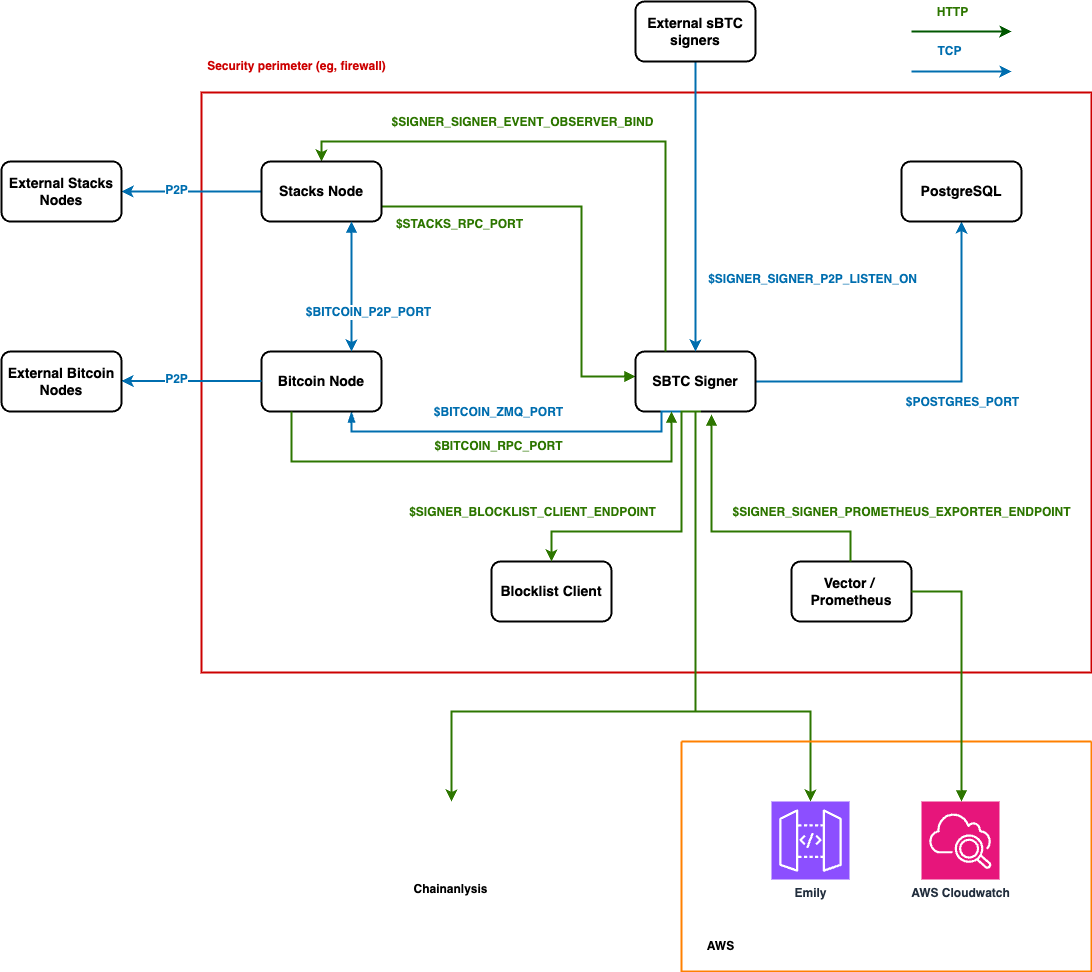
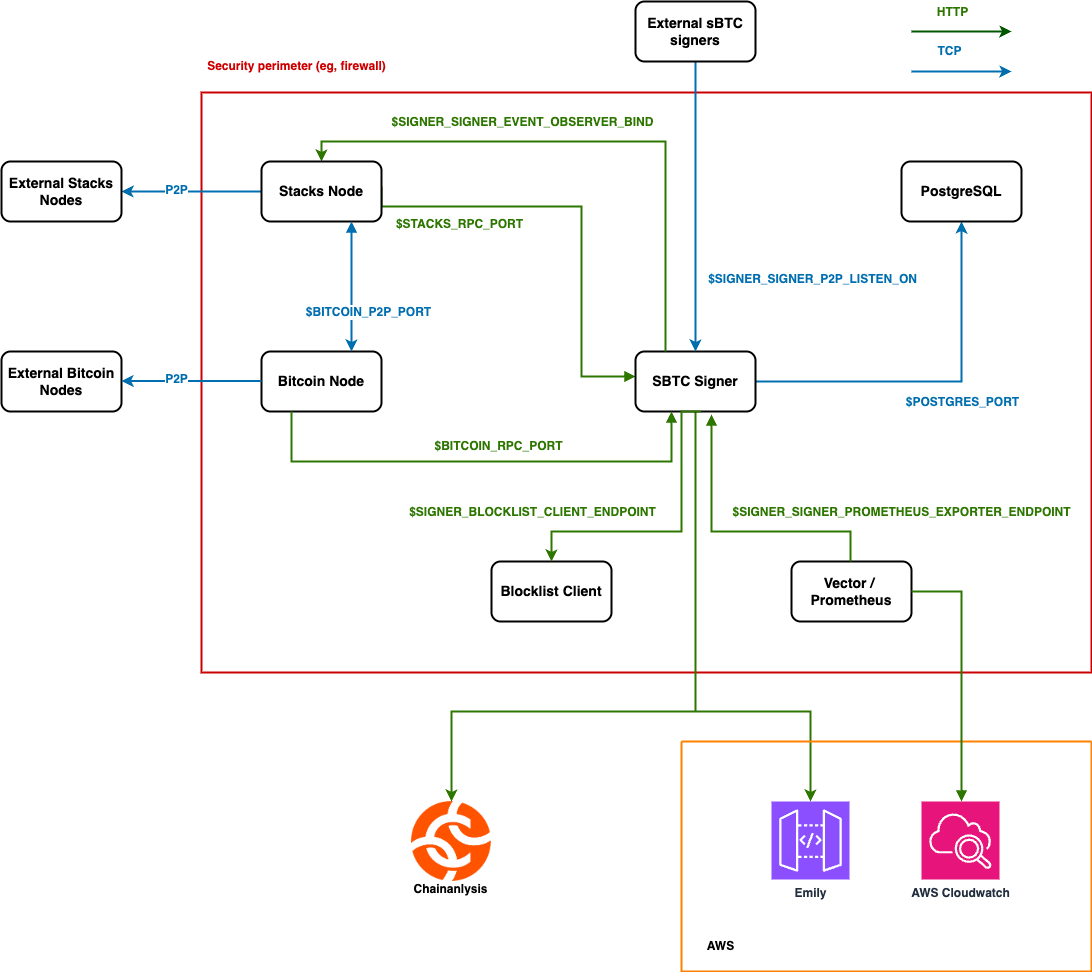
Update sBTC diagram and remove zmq dependency

diff --git a/guides-and-tutorials/sbtc/how-to-run-sbtc-signer.md b/guides-and-tutorials/sbtc/how-to-run-sbtc-signer.md
@@ -52,25 +52,7 @@ Your Bitcoin node must include these settings for sBTC signer operation:
 
    - `txindex=1`: Transaction indexing must be enabled
    - `server=1`: RPC server must be enabled
-   - `zmqpubhashblock=tcp://*:28332`: ZMQ block hash notifications
-   - `zmqpubrawblock=tcp://*:28332`: ZMQ raw block notifications
 
-### ZeroMQ (ZMQ) Configuration
-
-The ZeroMQ configuration specified above enables real-time blockchain event
-notifications from Bitcoin Core to the sBTC signer.
-
-The two required ZMQ endpoints serve distinct purposes:
-
-- `zmqpubhashblock`: Broadcasts only block hashes for lightweight block
-  detection
-- `zmqpubrawblock`: Broadcasts complete block data for transaction processing
-
-This notification system creates a direct event stream when:
-
-1. Bitcoin Core validates a new block
-1. Block data publishes via ZMQ
-1. Signer processes relevant sBTC transactions
 
 ### Example
 
@@ -84,9 +66,7 @@ bitcoind \
   -rpcport=${BITCOIN_RPC_PORT} \
   -rpcallowip=0.0.0.0/0 \
   -rpcallowip=::/0 \
-  -txindex \
-  -zmqpubhashblock="tcp://*:${BITCOIN_ZMQ_PORT}" \
-  -zmqpubrawblock="tcp://*:${BITCOIN_ZMQ_PORT}"
+  -txindex
 ```
 
 ## 2. Configure your Stacks node
